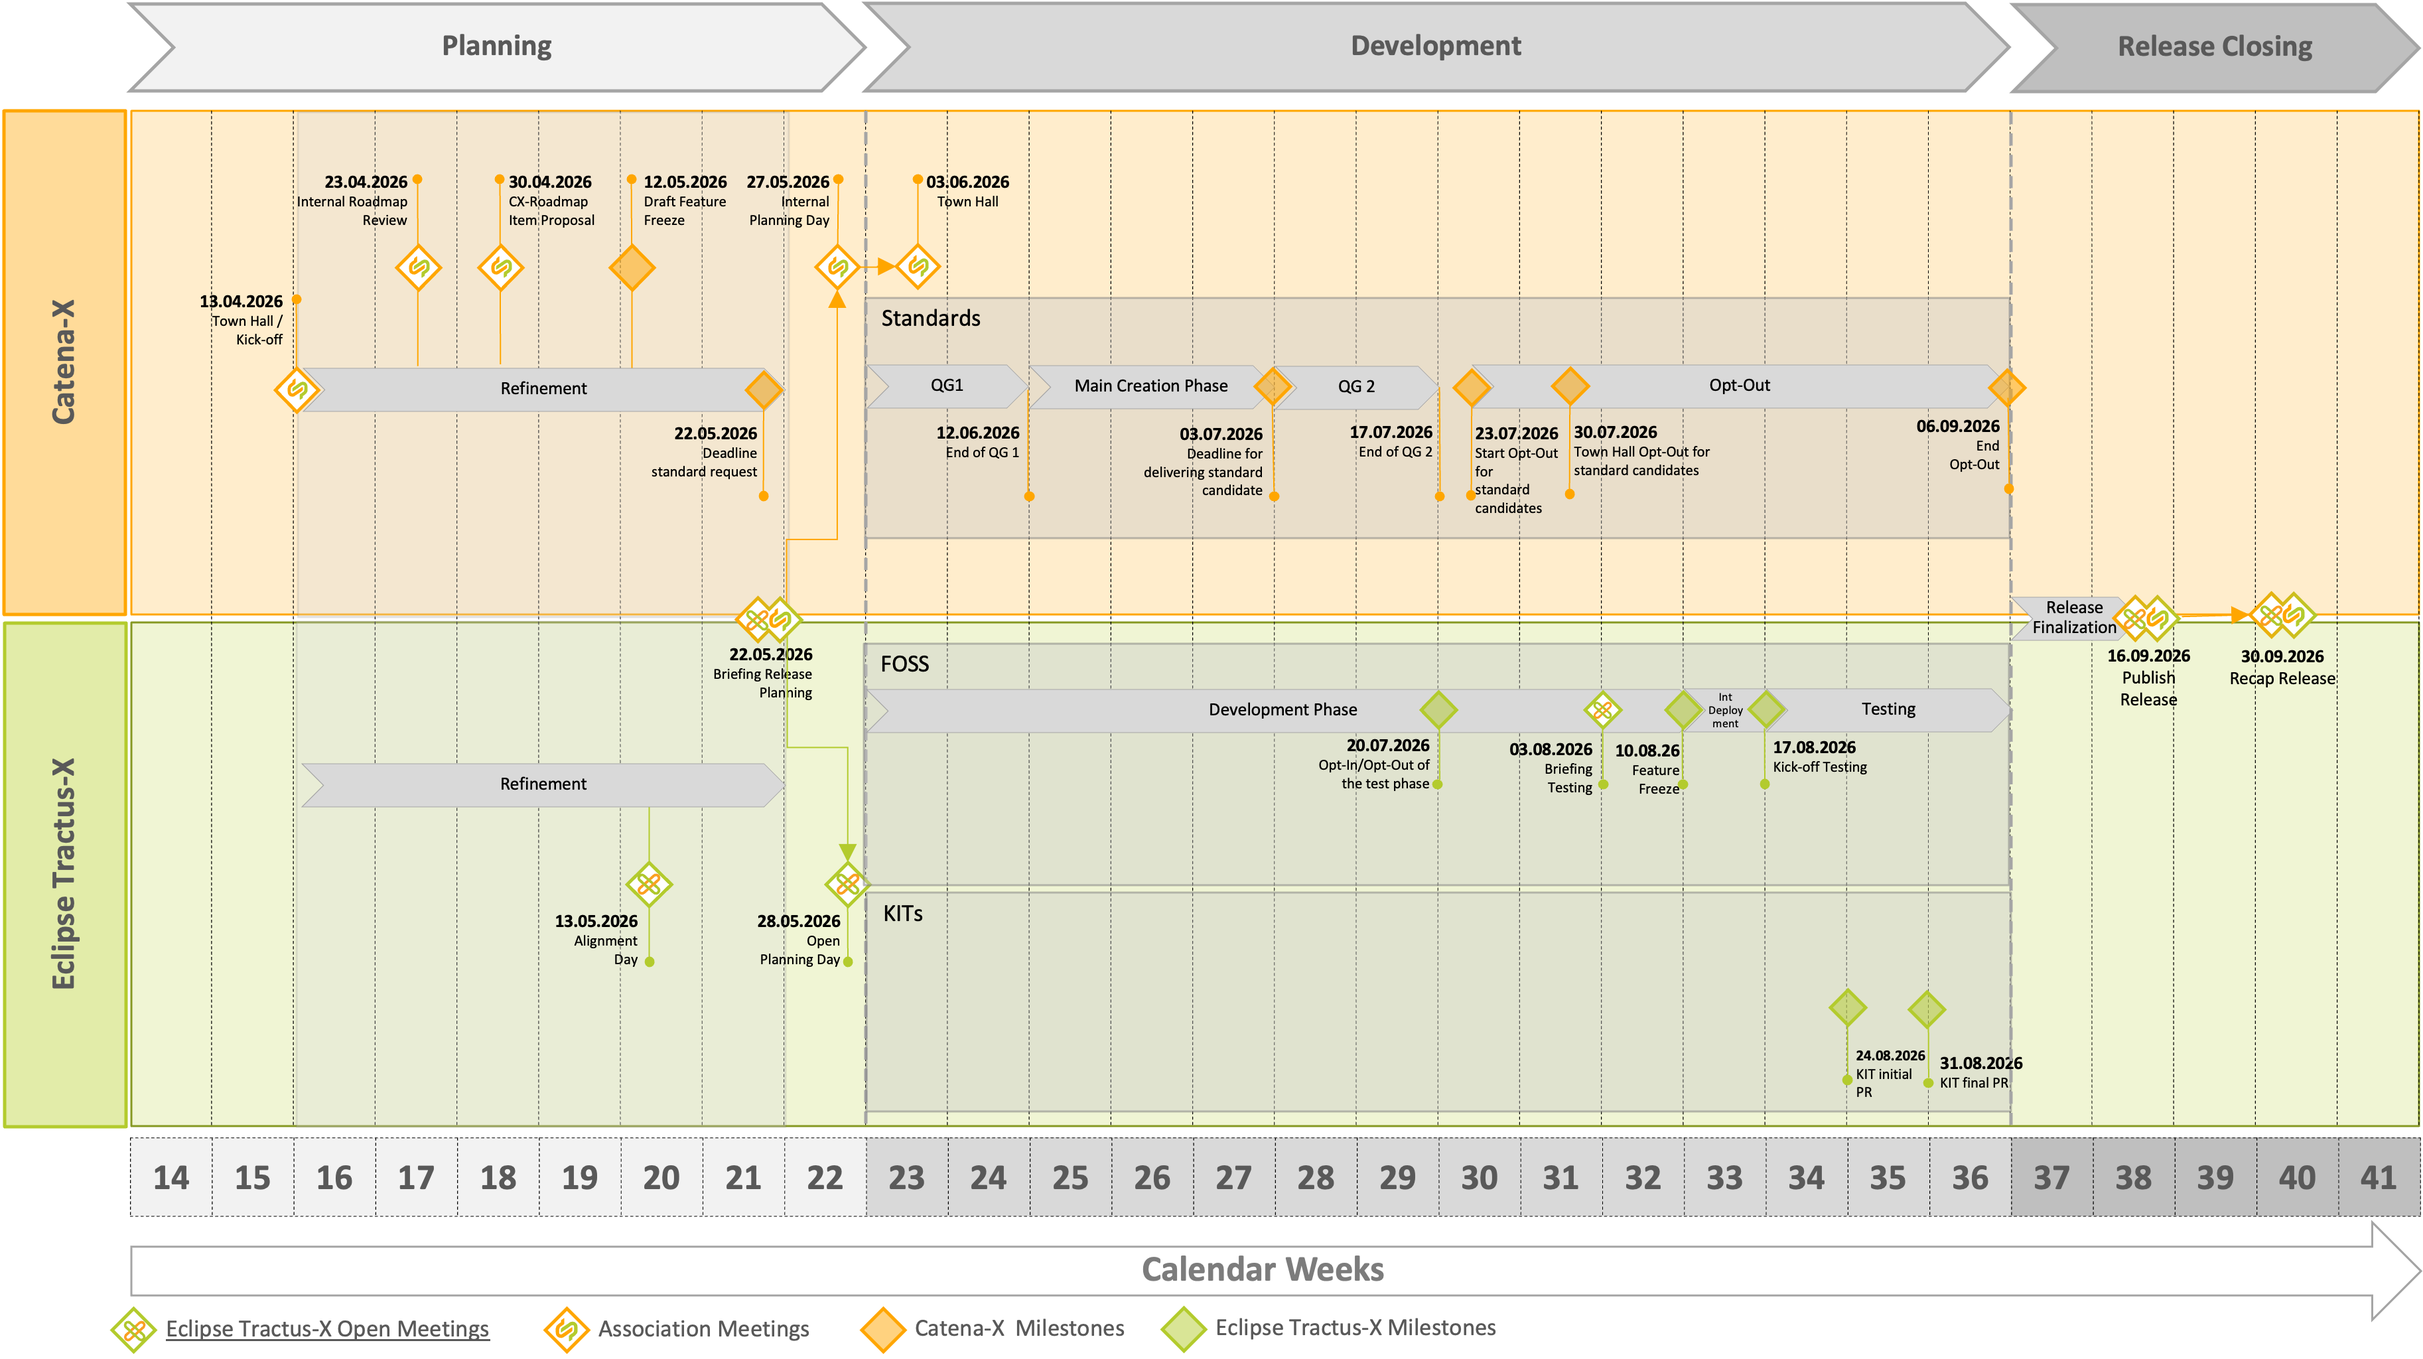
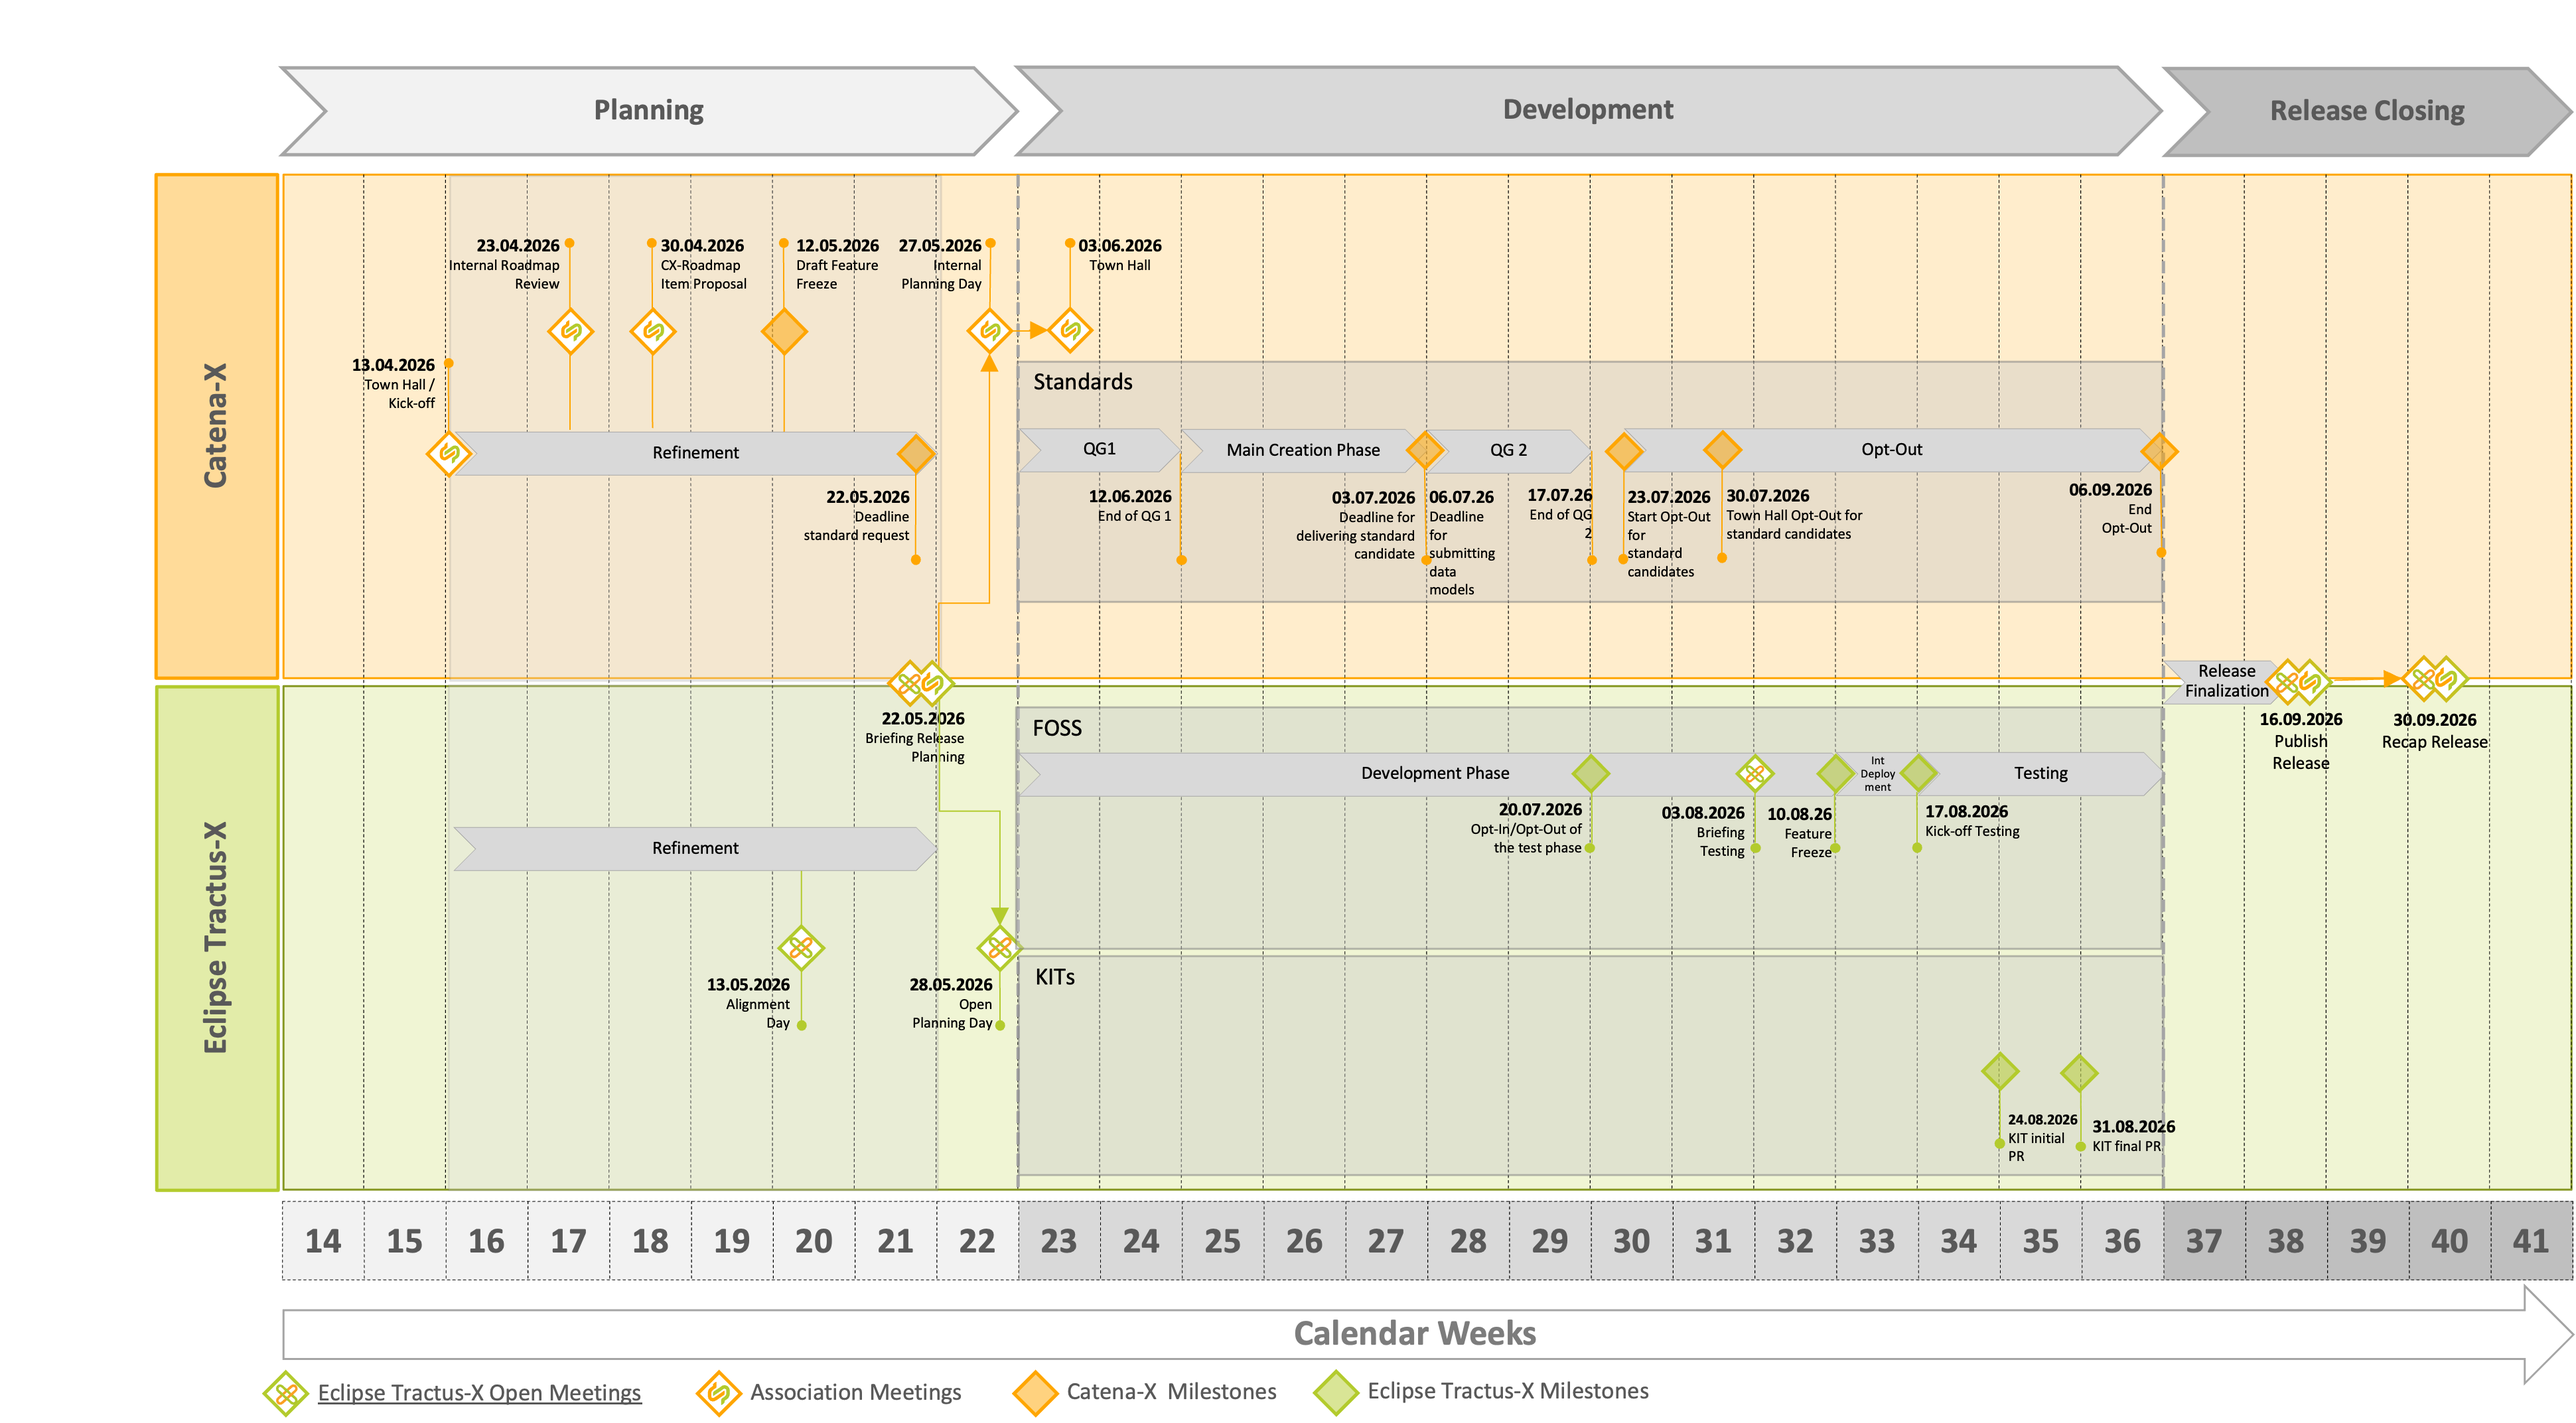
Add new milestone to upcoming release timelines and archive old timelines

Changed region(s): [[0.0, 0.0, 1.0, 1.0], [0.2185, 0.5625, 0.2497, 0.5938], [0.0624, 0.0, 0.0936, 0.0312]]

diff --git a/src/pages/timelines.md b/src/pages/timelines.md
@@ -1,6 +1,6 @@
 # Timelines
 
-On this page you will always find the current timelines for the Tractus-X/Catena-X releases. The ecosystem release **Io** will incorporate the reference implementations from Tractus-X 24.12 and 25.03.
+On this page you will always find the current timelines for the Tractus-X/Catena-X releases.
 
 Please have a look at [Release management](/release-management), to get more information.
 
@@ -14,14 +14,6 @@ Please have a look at [Release management](/release-management), to get more inf
 Below are the current timelines for the upcoming releases.
 Milestones marked with the Tractus-X logo are open to all and can be accessed through the [Tractus-X Open Meetings page](https://eclipse-tractusx.github.io/community/open-meetings).
 Milestones featuring the Catena-X logo indicate closed meetings, which are organized by invitation only and facilitated by the Catena-X Association.
-
-### Catena-X Saturn, incl. Eclipse Tractus-X Release 25.06 & 25.09
-
-[![Timeline for Release 25.06](@site//static/img/cx-timeline-25.06.png)](@site//static/img/cx-timeline-25.06.png)
-*Timeline for Release 25.06*
-
-[![Timeline for Release 25.09](@site/static/img/cx-timeline-25.09.png)](@site/static/img/cx-timeline-25.09.png)
-*Timeline for Release 25.09*
 
 ### Catena-X Titan, incl. Eclipse Tractus-X Release 25.12 & 26.03
 
